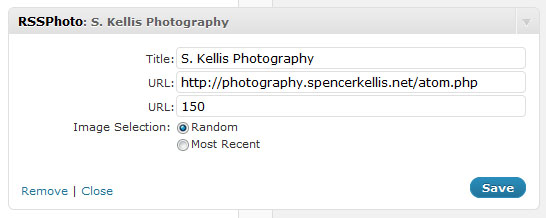
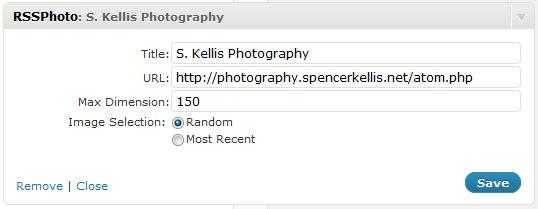
Fixed bug with default values for image selection, and rolled everything up into 0.2
git-svn-id: https://plugins.svn.wordpress.org/rssphoto/trunk@144637 b8457f37-d9ea-0310-8a92-e5e31aec5664

diff --git a/rssphoto.php b/rssphoto.php
@@ -210,7 +210,7 @@ class RSSPhotoWidget extends WP_Widget
   function form($instance)
   {
     //Defaults
-    $instance = wp_parse_args( (array) $instance, array('rssphoto_title'=>'RSSPhoto','rssphoto_url'=>'http://photography.spencerkellis.net/atom.php','rssphoto_max'=>150,'rssphoto_sel','Random') );
+    $instance = wp_parse_args( (array) $instance, array('rssphoto_title'=>'RSSPhoto','rssphoto_url'=>'http://photography.spencerkellis.net/atom.php','rssphoto_max'=>150,'rssphoto_sel'=>'Random') );
 
     $title = htmlspecialchars($instance['rssphoto_title']);
     $url = htmlspecialchars($instance['rssphoto_url']);
